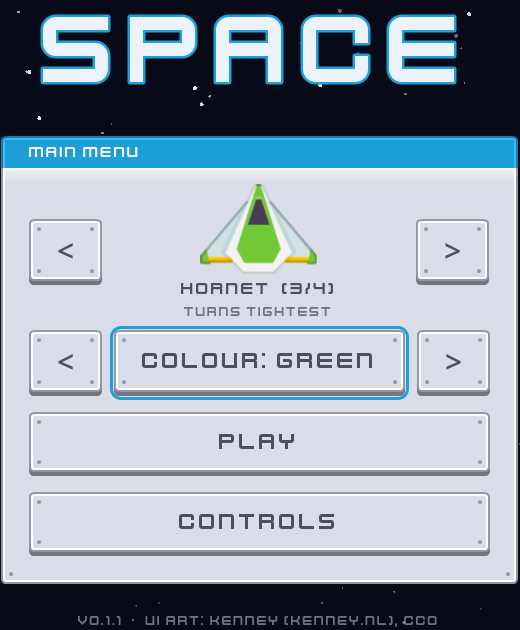
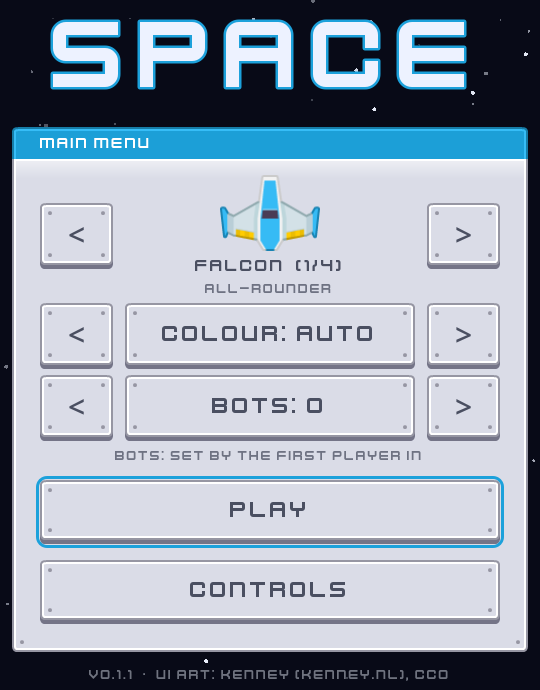
Server-flown bots; the first player in picks how many
ServerBots (common/game/server_bots.gd): players the server flies
itself, with negative peer ids and spawn data "bot": true. They spawn
through the same spawner, so clients draw them like anyone else, and
the server feeds InputRelay.server_bot at INPUT_HZ instead of the RPC.
The first person into an empty match decides the count: join_choice
"bots" applies only when no other person has a ship. Bots take free
seats only, give one up when someone joins a full match, and leave with
the last person.

Space: a Bots row (0-7) in the menu picker, remembered with the other
picks. SpaceBot also flies server bots, reading rock positions at the
current server time. Labels read "Bot (P2)", and the scoreboard shows
"bot". Menu spacing is tightened so it still fits 720 px.

Smoke: space clients ask for 2 server bots. The server checks they flew
and fired (and counts people's shots separately); clients check they
drew a bot move.

Claude-Session: https://claude.ai/code/session_01Gx7ir3udYG59zuXnbMWT41

diff --git a/games/space/README.md b/games/space/README.md
@@ -6,6 +6,10 @@
 
 **Ships** (#31): pick one of four ships and its colour on the menu before Play (`SpaceShipPicker`); both are remembered (`user://space.cfg`). Left/Right (keys, D-pad, stick) or the arrows change the ship; Up moves to the colour button, where Left/Right change the colour. Colours are blue, green, orange and red, or **auto** (the default): your seat's colour, so players who don't pick still differ. Anyone may pick a colour someone else has; the labels still tell you apart. Your colour also tints your shots and your score.
 
+**Bots** (server-flown): the menu's **Bots** row (0–7) asks the server to fly that many bot ships. Only the first person into an empty match decides (the pick goes with the join request; later players' picks are ignored), and going back to select while alone lets you change it. Bots are ordinary ships spawned by the server (`ServerBots`, fake negative peer ids, labelled "Bot (P2)" and "bot" on the scoreboard), flown by `SpaceBot` reading the server's own state, with a random ship and colour. They take free seats only, one gives up its seat when someone joins a full match, and they all leave with the last person.
+
+![Three server bots flying with you](../../docs/screenshots/space-server-bots.png)
+
 **Changing ship mid-game:** Esc (Start on a controller, the **Menu** button top-left on touch; remappable as "Ship select") despawns your ship and brings the menu back. Pick again and Play: you rejoin on the same connection, in the same seat, with your score. It's the generic `InputSetup.MENU` action: `main.gd` calls `GameBase.leave_to_select()` (the server checks the sender, removes that player and keeps the seat waiting) and Play sends the join request again. Games without a menu get their join button back instead.
 
 ![Picking a green Hornet on the menu](../../docs/screenshots/space-ship-picker.png)
@@ -55,9 +59,9 @@ All are CC0; see `CREDITS.md`.
 
 ## Smoke test
 
-Bots use `SpaceBot`, which turns toward the nearest asteroid it can see, thrusts and fires. On top of the usual "everyone moved":
-- the **server** checks that every player fired and that rocks were destroyed;
-- **each client** checks that it got the hull and colour it asked for (bots pick both at random, auto included), drew its own shots, drew a rock explode, drew its own ship's RCS thrusters, and received a non-zero score from the server (any ship's: whether one particular bot lands a hit in a short run is chance).
+Bots use `SpaceBot`, which turns toward the nearest asteroid it can see, thrusts and fires. Each smoke client also asks for `SpaceArena.SMOKE_BOTS` (2) server bots. On top of the usual "everyone moved":
+- the **server** checks that every person fired, that rocks were destroyed, and that the server bots flew and fired;
+- **each client** checks that it got the hull and colour it asked for (bots pick both at random, auto included), drew its own shots, drew a rock explode, drew a server bot move, drew its own ship's RCS thrusters, and received a non-zero score from the server (any ship's: whether one particular bot lands a hit in a short run is chance).
 
 | File | Runs on | Does |
 |---|---|---|
@@ -69,9 +73,9 @@ Bots use `SpaceBot`, which turns toward the nearest asteroid it can see, thrusts
 | `space_arena.gd` | both | world, spawners, shared clock, camera that follows your ship, `smoke_report()` |
 | `space_fx.gd` | client | ghosts, explosion puffs, sounds (silent when headless) |
 | `space_scoreboard.gd` | client | scores, top-right |
-| `space_bot.gd` | client (bots) | aiming smoke-test pilot |
+| `space_bot.gd` | client (smoke bots), server (server bots) | aiming pilot |
 | `space_menu.gd` | client | the main menu (`GameMenu` subclass): Play, and its Controls page |
-| `space_ship_picker.gd` | client | the menu's ship and colour picker; remembers the pick |
+| `space_ship_picker.gd` | client | the menu's ship, colour and bots picker; remembers the picks |
 | `space_ui.gd` | client | menu theme built in code from the Kenney UI pack: 9-slice panel and buttons, Kenney Future font |
 | `starfield.gd` | client | procedural twinkling star field (menu background; parallax arena backdrop) |
 

diff --git a/CLAUDE.md b/CLAUDE.md
@@ -36,6 +36,7 @@ common/
   game/game_base.gd        spawner, peer join/leave, smoke reporting — base for every game
   game/player_net.gd       PlayerNet: relay + synchronizer + interpolation every player uses
   game/player_slots.gd     PlayerSlots: reusable seats (match-full check, spawn index)
+  game/server_bots.gd      ServerBots: players the server flies itself (first person picks how many)
 client/                    SnapshotBuffer/SnapshotClock (interpolation), StateTimeline (discrete
                            state on the server timeline), InputSetup (actions + default bindings),
                            InputBindings (remap + save), ControlsEditor (settings page),
@@ -112,7 +113,7 @@ Clients send **input**. The server simulates and replicates **state**. Clients r
 - **WebSocket is TCP**, so `unreliable*` behaves as reliable-ordered and one late packet delays the ones behind it. Keep the annotations correct anyway (they become real on WebRTC) and design for 100–200 ms hitches: interpolate, never snap.
 
 ### Player plumbing
-`common/game/player_net.gd` (`PlayerNet`) holds what every player shares: spawn data (peer id, slot, colour), the `InputRelay`, the synchronizer, and client-side buffering and sampling on the server timeline. A player script declares the synced properties (the synchronizer reads them off the node), forwards their setters to `PlayerNet`, and keeps only its sim step and visuals. A new game's player should do the same; don't copy the plumbing. `PlayerNet.setup(..., extra_synced, on_change_props)` adds the player's own props: `extra_synced` go with every snapshot after `net_time`, so discrete state whose changes must line up with what's drawn (alive, shield) can be stamped and played back with a `StateTimeline`; `on_change_props` are for values whose timing doesn't matter (score). `PlayerNet.use_clock()` shares one server clock with other things drawn on the server timeline. A game's own bot goes in `InputRelay.make_bot` (built only on the owning client).
+`common/game/player_net.gd` (`PlayerNet`) holds what every player shares: spawn data (peer id, slot, colour), the `InputRelay`, the synchronizer, and client-side buffering and sampling on the server timeline. A player script declares the synced properties (the synchronizer reads them off the node), forwards their setters to `PlayerNet`, and keeps only its sim step and visuals. A new game's player should do the same; don't copy the plumbing. `PlayerNet.setup(..., extra_synced, on_change_props)` adds the player's own props: `extra_synced` go with every snapshot after `net_time`, so discrete state whose changes must line up with what's drawn (alive, shield) can be stamped and played back with a `StateTimeline`; `on_change_props` are for values whose timing doesn't matter (score). `PlayerNet.use_clock()` shares one server clock with other things drawn on the server timeline. A game's own bot goes in `InputRelay.make_bot` (built only on the owning client). The server can also fly bots itself (`ServerBots`: negative peer ids, spawn data `"bot": true`, input fed into `InputRelay.server_bot` instead of the RPC); the pilot comes from `GameBase._make_server_bot()` and must read server state, since nothing is drawn there.
 
 ### Spawned entities (projectiles, rocks, pickups)
 Use a second `MultiplayerSpawner` with its own custom `spawn_function`, server-only instantiation, small primitive spawn data, and node names derived from a server-assigned id. When the motion is predictable (straight lines, bounces), put origin, velocity and the server spawn time in the spawn data, and compute the position from them on every peer instead of syncing each entity. `games/space/` (`SpaceEntity`) is the example. It also keeps a client-side "ghost" after a despawn until render time reaches the removal, so hits line up with what's drawn.

diff --git a/CHANGELOG.md b/CHANGELOG.md
@@ -7,6 +7,7 @@ Each release's section becomes the notes of its GitHub Release (`tools/release_n
 ## [Unreleased]
 
 ### Added
+- **Server-flown bots**: the first person into an empty match picks how many bots (0–7) on the space menu's **Bots** row. The server flies them itself (`ServerBots`: no client, no socket), with a random ship and colour; they give up seats to people and leave with the last one. Works for any game (`GameBase._make_server_bot`); only space has the menu row.
 - **Back to select with Esc**: Esc (Start on a controller, a **Menu** button top-left on touch; remappable) despawns your player and shows the menu again without leaving the match. In space, pick another ship or colour and Play: same seat, same score. Games without a menu show their join button. Bots do it once per smoke run, and each client checks it spawned again.
 - **Space: pick your ship and colour** (#31): Falcon (all-rounder), Comet (fastest), Hornet (tightest turns) or Gunship (fastest guns), in blue, green, orange, red or auto (your seat's colour), chosen on the menu before Play and remembered. Generic piece for other games: a client sends `GameBase.join_choice` (a small Dictionary) when it connects, and the server spawns its player once that arrives, with the game's sanitized version in the spawn data.
 - **Space: first real gameplay** (#16): co-op asteroid shooting with momentum ships, asteroids that split, pickups (rapid fire, shield, star) and per-player score, all server-authoritative. Uses Kenney's Space Shooter Redux + Extension art and Sci-fi Sounds + Digital Audio. The smoke test proves that shots, hits and scores work over the network.
